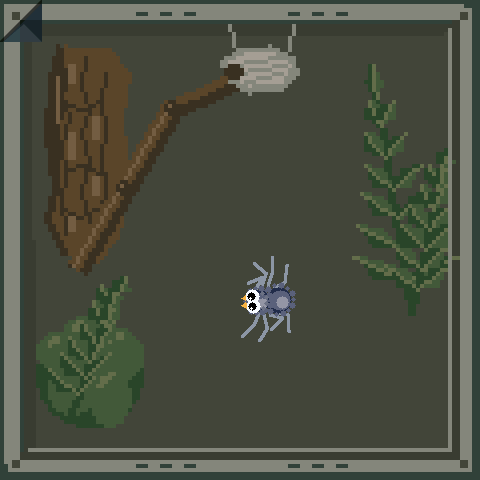
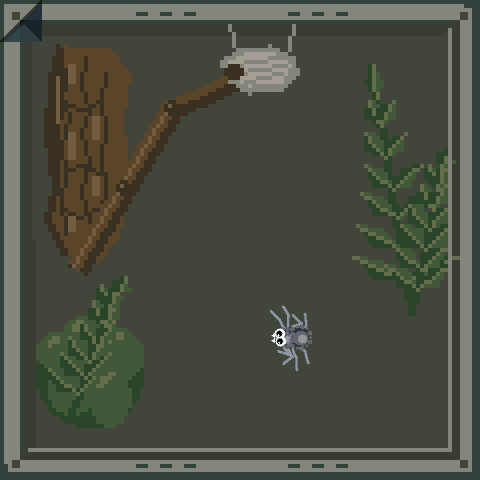
Release v1.1.4: button pin map, slider readouts, wandering, stage size
Fixes the physical button mapping: the left button was wired to volume-up and
the middle button to nothing useful. Left is now volume down, right volume up,
middle locks the screen, and every press is logged so a mis-map is visible.

Slider rows now update their percentage label while dragging instead of only
when the row is rebuilt.

Wandering draws its target from 80% of the playfield half-extent rather than
the middle half, so the spider explores instead of orbiting the centre; the
stuck-recovery path picks a fresh random target too.

Life stages scale the spider canvas (75/87.5/100%) on device and browser.

Browser: splat burst on a catch, and the care button matches the device's 44px
target. "Pocket Tank" now appears only in the README credit.

Changed region(s): [[0.5, 0.5312, 0.6562, 0.7812]]

diff --git a/site/lib/device-ui.js b/site/lib/device-ui.js
@@ -5,6 +5,8 @@ import { Minigame, GAME_NAMES, COLOR_NAMES, COLOR_RGB } from './minigames.js';
 import { DeviceAudio } from './device-audio.js';
 
 const asset = name => new URL(`../../assets/${name}.png`, import.meta.url).href;
+// Splat colours per prey species, matching the native dead-sprite tints.
+const SPLAT_COLOURS = ['#8a6a3a', '#4f6b2f', '#8a7a5a', '#3f3a2a', '#5a3a2a', '#a08a5a', '#6a5a3a', '#8a5a4a'];
 const title = name => name.split(/[ _]+/).map(word => word[0].toUpperCase() + word.slice(1)).join(' ');
 const clamp = (value, min, max) => Math.min(max, Math.max(min, value));
 function element(tag, className, text) {
@@ -431,7 +433,10 @@ export class DeviceGame {
       ctx.fillStyle = '#4a3520';
     }
     renderSpider(this.spiderPixels.data, this.spiderOptions()); this.spiderCtx.putImageData(this.spiderPixels, 0, 0);
-    ctx.drawImage(this.spiderCanvas, s.spider_x - 48, s.spider_y - 48);
+    // Life-stage size: a spiderling reads as small, an adult as full size.
+    const stageScale = s.stage === 0 ? .75 : s.stage === 1 ? .875 : 1;
+    const half = 48 * stageScale;
+    ctx.drawImage(this.spiderCanvas, s.spider_x - half, s.spider_y - half, half * 2, half * 2);
     if (s.state === E.STATES.AIM) {
       ctx.strokeStyle = '#f5c86b'; ctx.lineWidth = 2; ctx.setLineDash([6, 4]); ctx.beginPath();
       ctx.moveTo(s.spider_x, s.spider_y); ctx.lineTo(s.aim_x, s.aim_y); ctx.stroke(); ctx.setLineDash([]);
@@ -442,6 +447,25 @@ export class DeviceGame {
       const species = E.SPECIES[prey.species], frame = prey.frame ?? Math.floor(performance.now() / 200) % 2;
       const image = this.image(`prey_${species.key}_${prey.alive ? (prey.fleeing ? 'flee_' : 'walk_') + frame : 'dead_0'}`);
       if (image.complete && image.naturalWidth) ctx.drawImage(image, prey.x - 12, prey.y - 12, 24, 24);
+      // Splat: a short burst of the species colour where the bug was caught.
+      if (prey.dead && prey.dead_at) {
+        const age = 2200 - Math.max(0, prey.dead_at - performance.now());
+        if (age >= 0 && age < 700) {
+          const t = age / 700, radius = 4 + t * 14, alpha = 1 - t;
+          ctx.save();
+          ctx.globalAlpha = alpha * .85;
+          ctx.fillStyle = SPLAT_COLOURS[prey.species] || '#7a2f2f';
+          for (let i = 0; i < 6; i++) {
+            const a = (i / 6) * Math.PI * 2 + t * 1.2;
+            const d = radius * (.55 + .45 * ((i * 37) % 11) / 11);
+            ctx.beginPath();
+            ctx.ellipse(prey.x + Math.cos(a) * d, prey.y + Math.sin(a) * d,
+                        2.6 * (1 - t) + .8, 2.2 * (1 - t) + .6, a, 0, Math.PI * 2);
+            ctx.fill();
+          }
+          ctx.restore();
+        }
+      }
     }
   }
   frame(now) {

diff --git a/site/lib/device-engine.js b/site/lib/device-engine.js
@@ -536,7 +536,10 @@ function advance(s,speed,dt){
   s.spider_x=round(r.px);s.spider_y=round(r.py);
 }
 function inward(s) {
-  const tx=240+(roll(s,2001)/1000-1)*103,ty=240+(roll(s,2001)/1000-1)*103;
+  // Whole playfield, not the middle half: aiming at the middle made every
+  // wander leg converge on the centre. 0.40 of the half-extent reaches most of
+  // the tank while staying off the wall.
+  const tx=240+(roll(s,2001)/1000-1)*165,ty=240+(roll(s,2001)/1000-1)*165;
   return Math.atan2(ty-s.spider_y,tx-s.spider_x);
 }
 function canVisit(s){return s.gift.used&&!s.sick&&s.energy>=20&&s.hunger>=60&&[0,1].includes(s.state);}
@@ -602,7 +605,7 @@ function behaviourTick(s,dt){
       }else {if(now>=r.retarget_at){r.retarget_at=now+2000;r.wander_dir=inward(s);}steer(s,r.wander_dir,dt,true);}
       advance(s,55*scale,dt);
       if(Math.abs(r.px-r.stuck_x)<1.5&&Math.abs(r.py-r.stuck_y)<1.5){
-        if(now-r.stuck_at>1500){r.wander_dir=Math.atan2(240-r.py,240-r.px);r.target=null;r.stuck_at=now;r.stuck_x=r.px;r.stuck_y=r.py;}
+        if(now-r.stuck_at>1500){r.wander_dir=inward(s);r.target=null;r.stuck_at=now;r.stuck_x=r.px;r.stuck_y=r.py;}
       }else {r.stuck_at=now;r.stuck_x=r.px;r.stuck_y=r.py;}
       break;
     default:{

diff --git a/main/behaviour.c b/main/behaviour.c
@@ -120,15 +120,20 @@ static void steer_avoiding(float want, float dt_s)
  *
  * A uniform random angle can point straight at a wall, and the wall avoidance
  * then has to fight it every frame. Biasing the direction toward the interior
- * means the spider mostly walks across the tank rather than into its edges. */
+ * means the spider mostly walks across the tank rather than into its edges.
+ *
+ * The target is drawn from the whole playfield, not the middle half. Aiming at
+ * the middle half made every wander leg point at the centre, so the spider
+ * orbited and settled there instead of exploring. A small inset keeps the
+ * target off the very edge, where wall avoidance would immediately fight it. */
 static float wander_dir_inward(void)
 {
     float cx = (float)(g_play.left + g_play.right) * 0.5f;
     float cy = (float)(g_play.top + g_play.bottom) * 0.5f;
 
-    /* Aim at a random point in the middle half of the tank. */
-    float hw = (float)(g_play.right - g_play.left) * 0.25f;
-    float hh = (float)(g_play.bottom - g_play.top) * 0.25f;
+    /* 80% of the half-extent: reaches most of the tank, stays off the wall. */
+    float hw = (float)(g_play.right - g_play.left) * 0.40f;
+    float hh = (float)(g_play.bottom - g_play.top) * 0.40f;
     float tx = cx + ((float)(rand() % 2001) / 1000.0f - 1.0f) * hw;
     float ty = cy + ((float)(rand() % 2001) / 1000.0f - 1.0f) * hh;
 
@@ -946,12 +951,12 @@ void behaviour_tick(uint32_t now_ms, float dt_s)
 
         /* Stuck detector. Sliding along a wall is stable, but a spider pressed
          * into a corner can still sit there while its heading points outward.
-         * If it has not actually moved for a while, aim it at the middle of the
-         * tank. This is the safety net for "the spider gets stuck in place". */
+         * If it has not actually moved for a while, pick a fresh random target
+         * rather than aiming at the centre - aiming at the centre made every
+         * recovery leg converge on the middle of the tank. */
         if (fabsf(s_px - s_stuck_x) < 1.5f && fabsf(s_py - s_stuck_y) < 1.5f) {
             if (now_ms - s_stuck_at > 1500u) {
-                s_wander_dir = atan2f((float)((g_play.top + g_play.bottom) / 2) - s_py,
-                                      (float)((g_play.left + g_play.right) / 2) - s_px);
+                s_wander_dir = wander_dir_inward();
                 s_has_target = false;
                 s_stuck_at = now_ms;
                 s_stuck_x = s_px;

diff --git a/main/buttons.c b/main/buttons.c
@@ -21,9 +21,9 @@
 
 static const char *TAG = "spidarium.buttons";
 
-#define BTN_LOCK_GPIO   GPIO_NUM_0    /* top middle */
-#define BTN_DOWN_GPIO   GPIO_NUM_18   /* left       */
-#define BTN_UP_GPIO     GPIO_NUM_17   /* right      */
+#define BTN_LEFT_GPIO   GPIO_NUM_18   /* volume down */
+#define BTN_MID_GPIO    GPIO_NUM_0    /* lock / unlock */
+#define BTN_RIGHT_GPIO  GPIO_NUM_17   /* volume up   */
 
 /* Debounce: a level must be stable for this long before it counts. */
 #define BTN_DEBOUNCE_MS 30u
@@ -41,9 +41,9 @@ typedef struct {
 } button_t;
 
 static button_t s_buttons[] = {
-    { .pin = BTN_LOCK_GPIO },
-    { .pin = BTN_DOWN_GPIO },
-    { .pin = BTN_UP_GPIO },
+    { .pin = BTN_MID_GPIO },
+    { .pin = BTN_LEFT_GPIO },
+    { .pin = BTN_RIGHT_GPIO },
 };
 #define BTN_COUNT (sizeof s_buttons / sizeof s_buttons[0])
 
@@ -58,8 +58,8 @@ static bool read_pressed(gpio_num_t pin)
 bool buttons_init(void)
 {
     gpio_config_t cfg = {
-        .pin_bit_mask = (1ULL << BTN_LOCK_GPIO) | (1ULL << BTN_DOWN_GPIO) |
-                        (1ULL << BTN_UP_GPIO),
+        .pin_bit_mask = (1ULL << BTN_MID_GPIO) | (1ULL << BTN_LEFT_GPIO) |
+                        (1ULL << BTN_RIGHT_GPIO),
         .mode = GPIO_MODE_INPUT,
         .pull_up_en = GPIO_PULLUP_ENABLE,
         .pull_down_en = GPIO_PULLDOWN_DISABLE,
@@ -77,8 +77,8 @@ bool buttons_init(void)
         s_buttons[i].next_repeat = 0;
     }
     s_ready = true;
-    ESP_LOGI(TAG, "buttons ready: lock=%d down=%d up=%d",
-             (int)BTN_LOCK_GPIO, (int)BTN_DOWN_GPIO, (int)BTN_UP_GPIO);
+    ESP_LOGI(TAG, "buttons ready: mid=%d left=%d right=%d",
+             (int)BTN_MID_GPIO, (int)BTN_LEFT_GPIO, (int)BTN_RIGHT_GPIO);
     return true;
 }
 
@@ -125,6 +125,7 @@ void buttons_tick(uint32_t now_ms)
             continue;
         }
 
+        ESP_LOGI(TAG, "button %u (gpio %d) pressed", i, (int)b->pin);
         switch (i) {
         case 0: buttons_set_locked(!buttons_locked()); break;
         case 1: volume_step(-BTN_VOLUME_STEP); b->next_repeat = now_ms + BTN_REPEAT_MS; break;

diff --git a/main/cspider.c b/main/cspider.c
@@ -496,6 +496,19 @@ bool cspider_hit(int32_t x, int32_t y)
 /* ------------------------------------------------------------------ */
 /* Render                                                              */
 /* ------------------------------------------------------------------ */
+/* Life-stage size, in 1/256 units for LVGL's transform scale. A spiderling is
+ * visibly smaller than an adult, so the molt reads as growth rather than a
+ * label change. */
+static int32_t stage_scale_256(void)
+{
+    switch (g.stage) {
+    case STAGE_SPIDERLING: return 192;  /* 75%  */
+    case STAGE_JUVENILE:   return 224;  /* 87.5% */
+    case STAGE_ADULT:      return 256;  /* 100% */
+    default:               return 256;
+    }
+}
+
 void cspider_render(uint32_t now_ms)
 {
     if (!s_canvas) return;
@@ -673,8 +686,15 @@ void cspider_render(uint32_t now_ms)
     lv_obj_invalidate(s_canvas);
 
     /* --- position ---------------------------------------------------
-     * Centre the canvas on the spider. */
+     * Centre the canvas on the spider, then scale it by life stage so a
+     * spiderling reads as small and an adult as full size. The canvas is a
+     * fixed 96x96 buffer; scaling the widget keeps the pixel art crisp and
+     * costs nothing per frame. */
     lv_obj_set_pos(s_canvas, g.spider_x - CANVAS_C, g.spider_y - CANVAS_C);
+    lv_obj_set_style_transform_pivot_x(s_canvas, CANVAS_C, 0);
+    lv_obj_set_style_transform_pivot_y(s_canvas, CANVAS_C, 0);
+    lv_obj_set_style_transform_scale_x(s_canvas, stage_scale_256(), 0);
+    lv_obj_set_style_transform_scale_y(s_canvas, stage_scale_256(), 0);
 
     /* Sick spiders are visibly dulled. */
     lv_obj_set_style_opa(s_canvas, g.sick ? LV_OPA_60 : LV_OPA_COVER, 0);

diff --git a/main/ui_menu.c b/main/ui_menu.c
@@ -575,7 +575,15 @@ static void on_slider(lv_event_t *e)
     if (index >= s_count || !s_slider_cb[index]) return;
     ui_menu_slider_cb cb = s_slider_cb[index];
     uint8_t id = s_items[index].id;
-    cb(id, (uint8_t)lv_slider_get_value(s_sliders[row]));
+    uint8_t value = (uint8_t)lv_slider_get_value(s_sliders[row]);
+    cb(id, value);
+    /* The detail label is the percentage readout. Without this it kept the
+     * value the menu was opened with until the row was rebuilt. */
+    if (s_detail[row] && s_items[index].detail && s_items[index].detail[0]) {
+        char text[24];
+        snprintf(text, sizeof text, "%u%%", (unsigned)value);
+        lv_label_set_text(s_detail[row], text);
+    }
 }
 
 void ui_menu_open(const char *title, const ui_menu_item_t *items, int count,

diff --git a/docs/RELEASE_v1.1.4.md b/docs/RELEASE_v1.1.4.md
@@ -1,0 +1,47 @@
+# Spidarium v1.1.4
+
+## Physical buttons
+
+- **Left** steps the volume down, **right** steps it up, both repeating while
+  held. The pin map was wrong in v1.1.3: the left button was wired to the
+  volume-up action and the middle button to nothing useful.
+- **Middle** locks and unlocks the screen.
+- Every press is logged (`button N (gpio X) pressed`) so a mis-mapped pin is
+  visible in the serial log instead of silent.
+
+## Slider readouts
+
+The brightness and volume sliders now update their percentage label while you
+drag. Previously the label kept the value the menu was opened with until the row
+was rebuilt, so the slider looked like it was not doing anything.
+
+## Spider behaviour
+
+- **Wandering explores the tank.** The wander target was drawn from the middle
+  half of the playfield, so every leg pointed at the centre and the spider
+  orbited and settled there. It now draws from 80% of the half-extent, and the
+  stuck-recovery path picks a fresh random target instead of aiming at the
+  middle.
+- **Life stages change size.** A spiderling renders at 75%, a juvenile at
+  87.5%, and an adult at 100%, on both the device and the browser, so a molt
+  reads as growth rather than a label change.
+
+## Browser
+
+- **Splat on a catch.** Pouncing on a bug now bursts a short ring of the
+  species colour where it was caught, fading over 700 ms.
+- **Smaller HUD button.** The care button matches the device's 44px target
+  instead of the oversized browser default.
+
+## Documentation
+
+"Pocket Tank" is now mentioned only once, in the README credit, as inspiration.
+The architecture and console docs describe this project's own rules.
+
+## Verification
+
+Build exit 0 with zero `main/` warnings, flash exit 0, device suite 47/47,
+40-cycle soak `VERDICT: PASS` with 0 faults, `scanloop 5` and `render 500` both
+at `largest_drift=0`, browser suite 73/73.
+
+See the [progress log](../PROGRESS.md) for exact evidence.

diff --git a/docs/serial_console.md b/docs/serial_console.md
@@ -76,8 +76,8 @@ and reads it with `usb_serial_jtag_read_bytes()`.
 
 ### Why not `fgets()` on stdin?
 
-`fgets()` is the standard ESP-IDF console path and it is what Pocket Tank uses,
-but it does **not** work on this board: the console VFS does not route stdin to
+`fgets()` is the standard ESP-IDF console path, but it does **not** work on this
+board: the console VFS does not route stdin to
 the USB-JTAG transport, so the task blocks forever while the device runs
 normally. `getchar()` is worse — it returns EOF immediately when nothing is
 pending, so the task spins.
@@ -566,7 +566,7 @@ Commands exceeding 383 bytes are rejected, never executed as truncated input.
 
 ## Architecture note: the radio and the display
 
-The rule this device follows, taken from Pocket Tank:
+The rule this device follows:
 
 > **The radio is only on during a check, and the tank is not being drawn while
 > it is.**

diff --git a/README.md b/README.md
@@ -349,7 +349,8 @@ See **[IMPLEMENTATION_PLAN.md](IMPLEMENTATION_PLAN.md)** for the complete overha
 
 ## Credit
 
-The architecture follows [Pocket Tank](https://github.com/mediacutlet/pocket-tank)
-by mediacutlet: a direct RGB565 software renderer, the radio only during a check,
-and a strict separation between the reflex layer and the decision layer. Several
-of the hard-won lessons in `PROGRESS.md` are that project's lessons, relearned.
+Inspired by [Pocket Tank](https://github.com/mediacutlet/pocket-tank) by
+mediacutlet — a virtual pet on a small round display. Spidarium is an
+independent implementation: a different creature, a different renderer, a
+different save format and a different UI. Several of the hard-won lessons in
+`PROGRESS.md` were relearned the slow way rather than copied.
